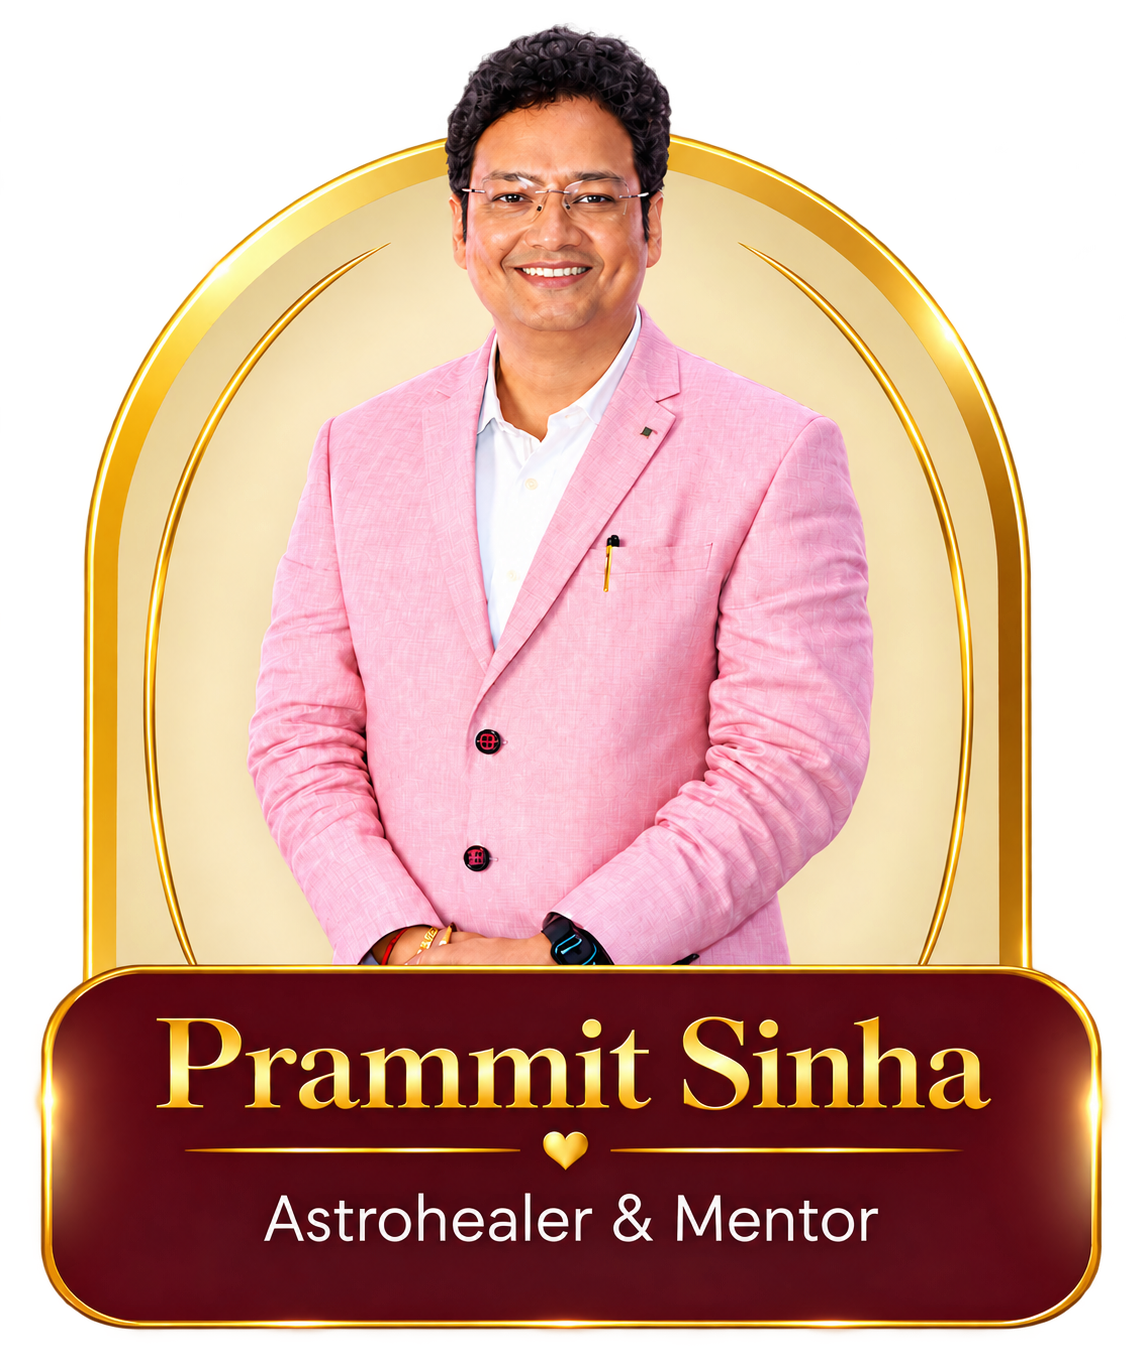
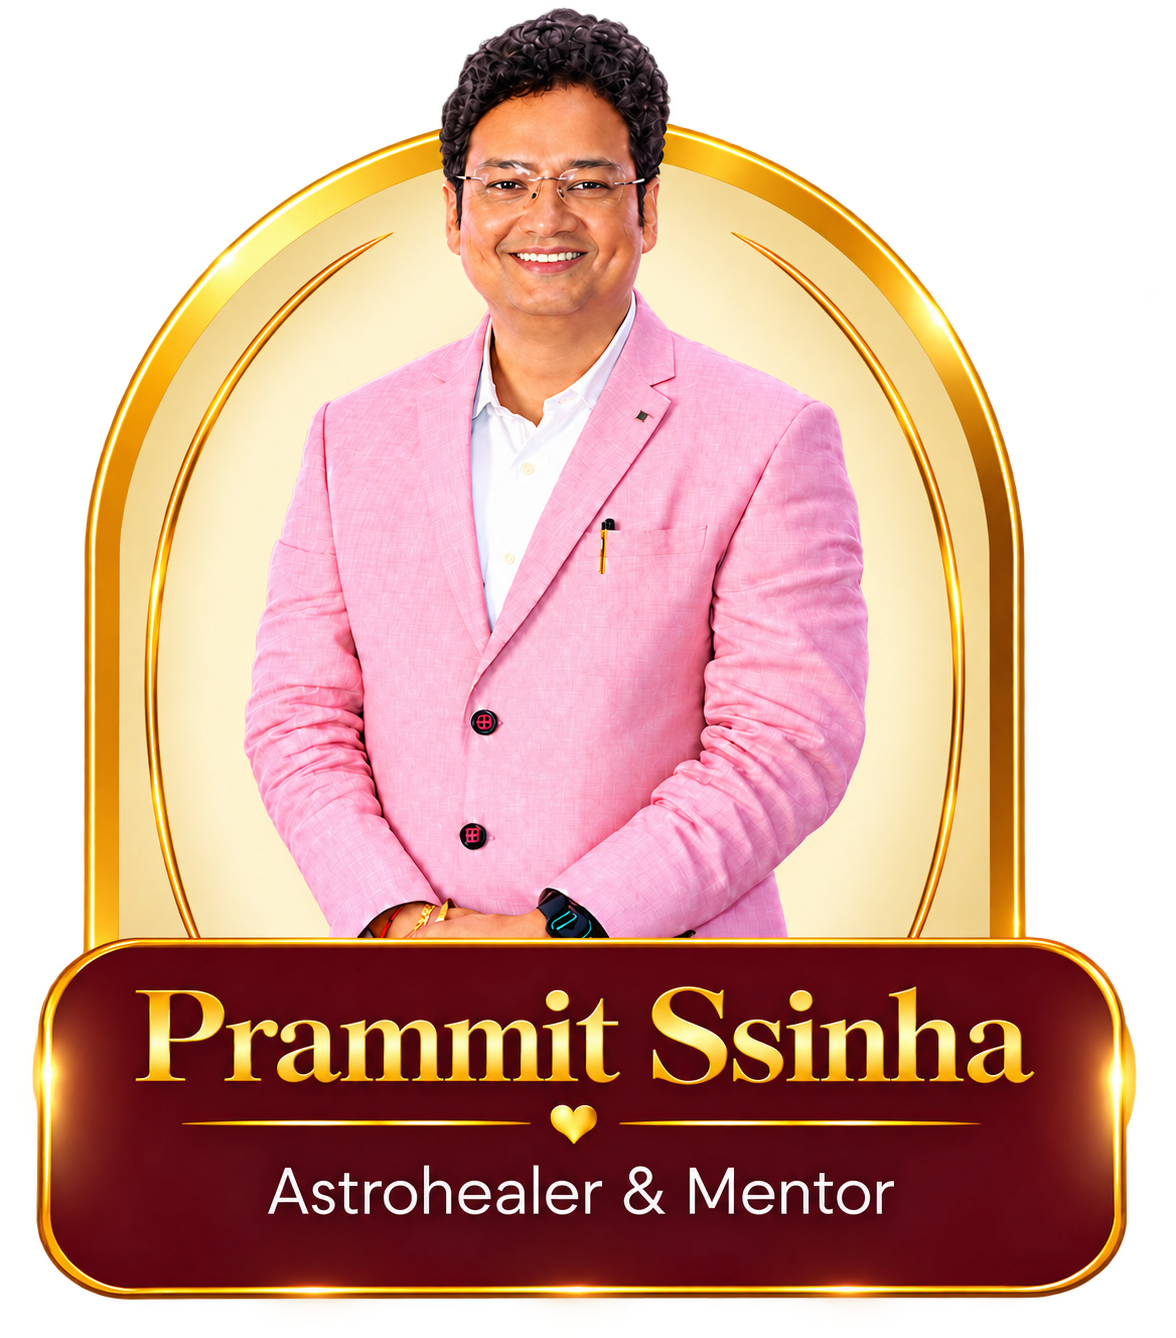
c

Changed region(s): [[0.0305, 0.0, 0.9756, 0.9806]]

diff --git a/index.html b/index.html
@@ -3,7 +3,7 @@
 <head>
     <meta charset="UTF-8">
     <meta name="viewport" content="width=device-width, initial-scale=1.0">
-    <title>Astrohealer Prammit Sinha | Hero</title>
+    <title>Astrohealer Prammit Ssinha | Hero</title>
     
     <!-- Google Fonts -->
     <link rel="preconnect" href="https://fonts.googleapis.com">
@@ -42,7 +42,7 @@
 
             <!-- Main Headline -->
             <h1 class="main-headline">
-                Turn Your Interest in Astrology, Vastu, and Spiritual Healing Into a <span class="highlight-gold">Structured Professional Career</span> With Personal Guidance From <span class="highlight-mentor-bg">Astrohealer Prammit Sinha.</span>
+                Turn Your Interest in Astrology, Vastu, and Spiritual Healing Into a <span class="highlight-gold">Structured Professional Career</span> With Personal Guidance From <span class="highlight-mentor-bg">Astrohealer Prammit Ssinha.</span>
             </h1>
 
             <!-- Description -->
@@ -54,7 +54,7 @@
             <div class="vsl-container">
                 <div class="vsl-card">
                     <div class="vsl-iframe-wrapper">
-                        <iframe class="vsl-iframe" src="https://www.youtube.com/embed/-YUxa2xpypM" title="Astrohealer Prammit Sinha - Career Guidance VSL" frameborder="0" allow="accelerometer; autoplay; clipboard-write; encrypted-media; gyroscope; picture-in-picture; web-share" allowfullscreen></iframe>
+                        <iframe class="vsl-iframe" src="https://www.youtube.com/embed/-YUxa2xpypM" title="Astrohealer Prammit Ssinha - Career Guidance VSL" frameborder="0" allow="accelerometer; autoplay; clipboard-write; encrypted-media; gyroscope; picture-in-picture; web-share" allowfullscreen></iframe>
                     </div>
                 </div>
             </div>
@@ -106,12 +106,12 @@
             <!-- Profile Image & Intro Split Layout -->
             <div class="profile-split-container">
                 <div class="profile-img-col">
-                    <img src="coach.png" alt="Astrohealer Prammit Sinha" class="profile-img">
+                    <img src="coach.png" alt="Astrohealer Prammit Ssinha" class="profile-img">
                 </div>
                 <div class="profile-text-col">
                     <!-- Subheadline -->
                     <h3 class="section-subheadline">
-                        Astrohealer Prammit Sinha
+                        Astrohealer Prammit Ssinha
                     </h3>
 
                     <!-- Introductory Paragraphs -->
@@ -176,7 +176,7 @@
             <div class="cta-wrapper section-two-cta">
                 <a href="#book-call" class="cta-button">
                     <div class="cta-inner">
-                        <span class="cta-text">EXPLORE MY CAREER PATH WITH PRAMMIT</span>
+                        <span class="cta-text">BOOK MY 1:1 CAREER GUIDANCE CALL</span>
                     </div>
                 </a>
             </div>
@@ -301,7 +301,7 @@
                             <p class="author-role">Consultation Client</p>
                         </div>
                     </div>
-                    <p class="testimonial-card-text">"The 1:1 guidance session with Prammit Sinha was eye-opening. His practical advice and deep understanding helped me gain absolute direction in my spiritual journey and career path."</p>
+                    <p class="testimonial-card-text">"The 1:1 guidance session with Prammit Ssinha was eye-opening. His practical advice and deep understanding helped me gain absolute direction in my spiritual journey and career path."</p>
                     <div class="star-rating bottom-right">
                         <i class="fa-solid fa-star"></i>
                         <i class="fa-solid fa-star"></i>
@@ -361,7 +361,7 @@
 
             <!-- Explore Subhead -->
             <h3 class="explore-box-title">
-                Here's What You'll Explore During Your <span class="highlight-gold">1:1 Session</span> With Prammit Sinha:
+                Here's What You'll Explore During Your <span class="highlight-gold">1:1 Session</span> With Prammit Ssinha:
             </h3>
 
             <!-- 4 Value Points Stack (Matching Uploaded Image Layout) -->
@@ -547,7 +547,7 @@
                         <i class="fa-solid fa-chevron-down faq-icon"></i>
                     </summary>
                     <div class="faq-answer">
-                        <p>During your consultation, Prammit Sinha will discuss your interests, background, and goals to help you explore whether Astrology, Vastu Shastra, Chakra Healing, or Meditation aligns with your aspirations.</p>
+                        <p>During your consultation, Prammit Ssinha will discuss your interests, background, and goals to help you explore whether Astrology, Vastu Shastra, Chakra Healing, or Meditation aligns with your aspirations.</p>
                     </div>
                 </details>
 
@@ -565,7 +565,7 @@
                 <!-- FAQ 5 -->
                 <details class="faq-item">
                     <summary class="faq-question">
-                        <span>What will I gain from the 1:1 consultation with Prammit Sinha?</span>
+                        <span>What will I gain from the 1:1 consultation with Prammit Ssinha?</span>
                         <i class="fa-solid fa-chevron-down faq-icon"></i>
                     </summary>
                     <div class="faq-answer">
@@ -600,7 +600,7 @@
             <!-- Still Unsure Callout Box -->
             <div class="unsure-callout-box">
                 <h3 class="unsure-callout-title">Still Unsure Where to Begin?</h3>
-                <p class="unsure-callout-text">Get personal guidance from Prammit Sinha and explore the professional path that suits your interests and goals.</p>
+                <p class="unsure-callout-text">Get personal guidance from Prammit Ssinha and explore the professional path that suits your interests and goals.</p>
             </div>
 
             <!-- Section 6 CTA -->
